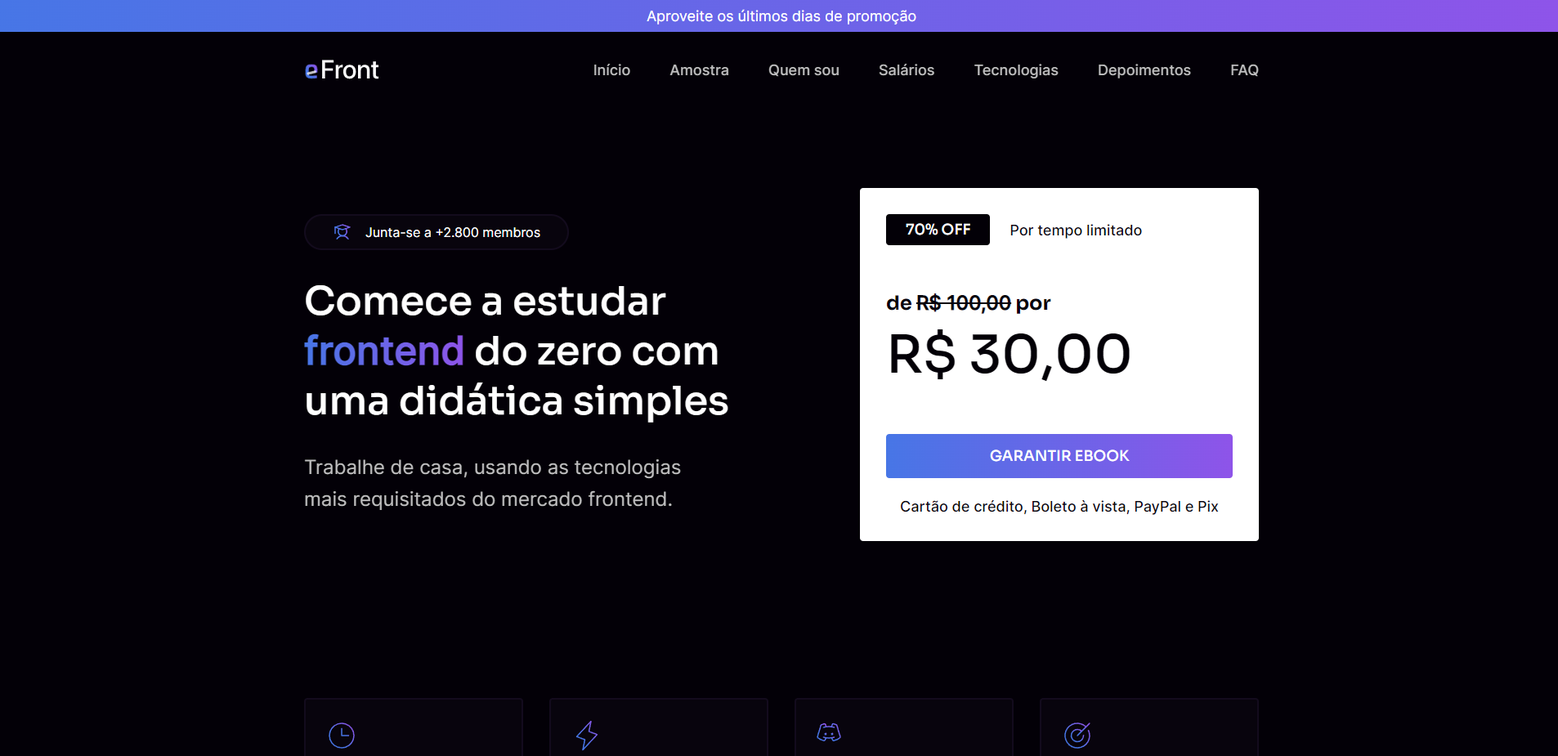
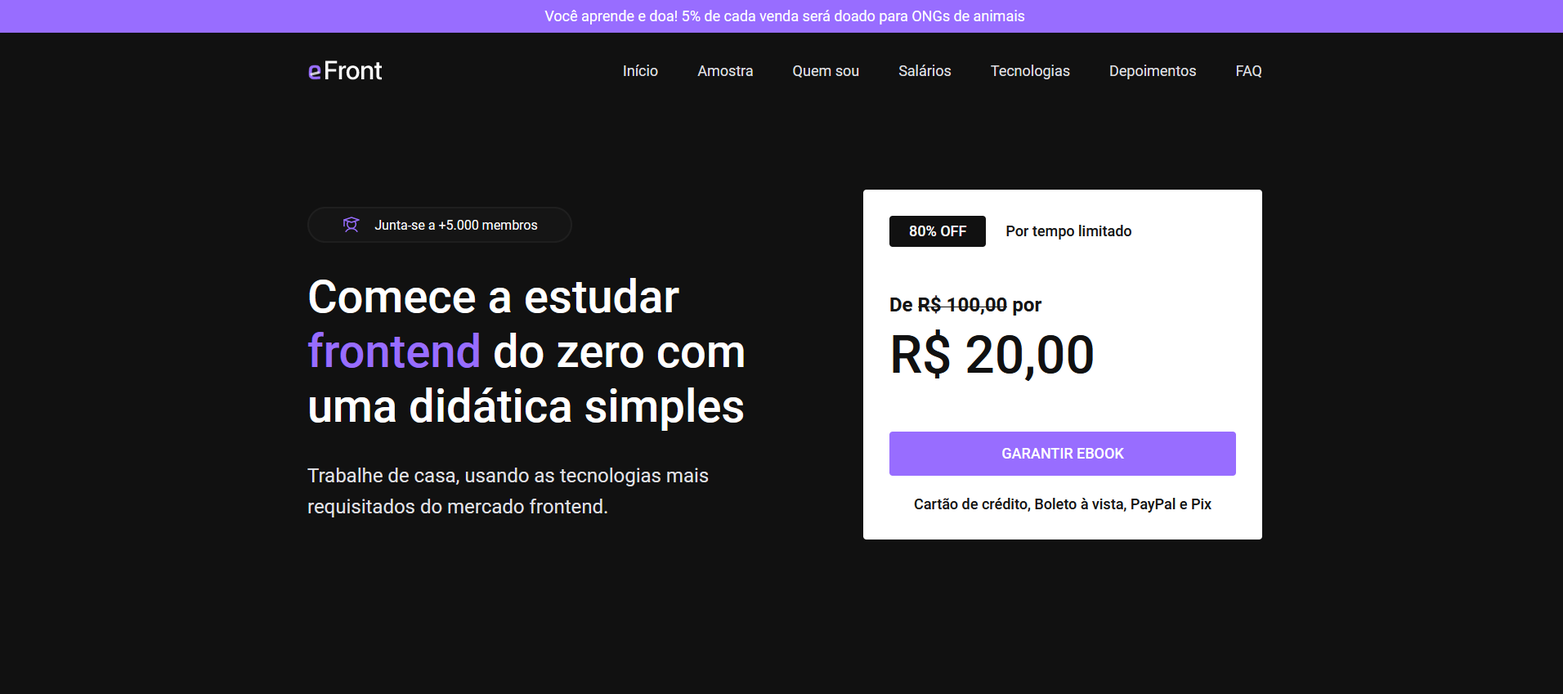
new sections

diff --git a/assets/css/style.css b/assets/css/style.css
@@ -1,1 +1,1 @@
-*{padding:0;margin:0;box-sizing:border-box;font-family:"Roboto"}ul,ol{list-style:none;margin:0;padding:0}a{text-decoration:none}img{max-width:100%;height:auto;display:block}p{margin:0;font-family:"Roboto"}button{margin:0;padding:0}h1,h2,h3,h4,h5,h6{margin:0;font-family:"Roboto";font-weight:500}button,input{border:0;font-family:"Roboto"}button:focus,input:focus{border:0}body{font-family:"Roboto";background-color:#111;color:#fff;overflow-x:hidden;min-height:100vh}html{scroll-behavior:smooth;font-size:62.5%}::-webkit-scrollbar{width:8px}::-webkit-scrollbar-track{background-color:#1f1f1f}::-webkit-scrollbar-thumb{background-color:#986dff;border-radius:8px}#s-menu{width:100%;height:auto;padding:32px 0px;margin-top:38px}#s-menu .grid-layout{display:flex;justify-content:space-between;align-items:center;flex-wrap:wrap}@media screen and (max-width: 688px){#s-menu .grid-layout div:nth-child(1){width:100%;display:flex;align-items:center;justify-content:center;margin-bottom:32px}}#s-menu .grid-layout div:nth-child(2){display:flex;align-items:center;gap:48px}@media screen and (max-width: 688px){#s-menu .grid-layout div:nth-child(2){width:100%}}@media screen and (max-width: 1140px){#s-menu .grid-layout div:nth-child(2) nav{display:none}}#s-menu .grid-layout div:nth-child(2) nav ul{display:flex;align-items:center;gap:48px}#s-menu .grid-layout div:nth-child(2) nav ul li a{font-size:1.8rem;color:#e1e1e6;font-weight:400}#s-menu .grid-layout div:nth-child(2) nav ul li a:hover{color:#fff}#s-menu .grid-layout div:nth-child(2)>a{padding:16px 32px;border-radius:4px;text-align:center;background:#111;position:relative}#s-menu .grid-layout div:nth-child(2)>a::before{content:"";position:absolute;inset:-2px;z-index:-1;border-radius:4px;background:#986dff}@media screen and (max-width: 688px){#s-menu .grid-layout div:nth-child(2)>a{width:100%}}#s-menu .grid-layout div:nth-child(2)>a button{text-transform:uppercase;font-weight:500;font-size:1.6rem;color:#fff;background-color:rgba(0,0,0,0);cursor:pointer}#s-menu .grid-layout div:nth-child(2)>a:hover{background:#986dff}#s-home{padding:96px 0px}@media screen and (max-width: 1140px){#s-home{padding:32px 0px}}#s-home .grid-layout #container-home{display:flex;align-items:center;justify-content:space-between;gap:96px}@media screen and (max-width: 1140px){#s-home .grid-layout #container-home{flex-wrap:wrap;gap:48px}}#s-home .grid-layout #container-home #info-main{width:50%}@media screen and (max-width: 1140px){#s-home .grid-layout #container-home #info-main{width:100%}}#s-home .grid-layout #container-home #info-main span{display:flex;align-items:center;justify-content:center;gap:16px;width:324px;background-color:#151515;border:2px solid #1f1f1f;border-radius:32px;padding:8px 32px;margin-bottom:32px}@media screen and (max-width: 688px){#s-home .grid-layout #container-home #info-main span{width:100%}}#s-home .grid-layout #container-home #info-main span p{font-size:1.6rem}#s-home .grid-layout #container-home #info-main h1{font-size:5.6rem;font-weight:500;width:600px}@media screen and (max-width: 1140px){#s-home .grid-layout #container-home #info-main h1{width:100%;font-size:4rem}}#s-home .grid-layout #container-home #info-main h1 b{color:#986dff;font-weight:500}#s-home .grid-layout #container-home #info-main>p{max-width:500px;margin-top:32px;font-size:2.4rem;line-height:160%;color:#e1e1e6}@media screen and (max-width: 1140px){#s-home .grid-layout #container-home #info-main>p{width:100%;font-size:2rem}}#s-home .grid-layout #container-home article{background-color:#fff;border-radius:4px;color:#111;width:50%;height:auto;padding:32px}@media screen and (max-width: 1140px){#s-home .grid-layout #container-home article{width:100%}}#s-home .grid-layout #container-home article div:nth-child(1){display:flex;align-items:center;flex-wrap:wrap;gap:24px}#s-home .grid-layout #container-home article div:nth-child(1) h2{background-color:#111;color:#fff;font-size:1.8rem;font-weight:500;border-radius:4px;padding:8px 24px;text-transform:uppercase}#s-home .grid-layout #container-home article div:nth-child(1) p{font-size:1.8rem;color:#151515;font-weight:500}#s-home .grid-layout #container-home article div:nth-child(2){margin:56px 0px}#s-home .grid-layout #container-home article div:nth-child(2) h4{font-size:6.4rem}@media screen and (max-width: 688px){#s-home .grid-layout #container-home article div:nth-child(2) h4{font-size:5.6rem}}#s-home .grid-layout #container-home article div:nth-child(2) h3{font-size:2.4rem;color:#151515;font-weight:600;margin-bottom:8px}#s-home .grid-layout #container-home article div:nth-child(2) h3 span{text-decoration:line-through}#s-home .grid-layout #container-home article a{background:#986dff;padding:16px;border-radius:4px;display:flex;justify-content:center}#s-home .grid-layout #container-home article a:hover{background:#8155ea}#s-home .grid-layout #container-home article a button{text-transform:uppercase;font-weight:500;font-size:1.8rem;color:#fff;background-color:rgba(0,0,0,0);cursor:pointer}#s-home .grid-layout #container-home article #info-pay{text-align:center;font-size:1.8rem;color:#151515;margin-top:24px;font-weight:500}.cards{display:flex;align-items:center;justify-content:space-between;flex-wrap:wrap;gap:32px}.cards article{width:20%;min-height:290px;background-color:#151515;border:2px solid #1f1f1f;border-radius:4px;padding:24px;flex-grow:1}@media screen and (max-width: 1140px){.cards article{width:48%;min-height:auto}}@media screen and (max-width: 688px){.cards article{min-height:auto}}.cards article img{width:40px}.cards article h3{font-size:2rem;margin:24px 0px 16px 0px;font-weight:500}@media screen and (max-width: 540px){.cards article h3{font-size:2rem}}.cards article p{font-size:1.6rem;line-height:160%;color:#e1e1e6}#s-advantage{padding:96px 0px}@media screen and (max-width: 1140px){#s-advantage{padding:32px 0px}}#s-technologies{padding:96px 0px}#s-technologies .technologies-disable{opacity:.5;cursor:no-drop}@media screen and (max-width: 1140px){#s-technologies{padding:32px 0px}}#s-technologies #next-icon{width:56px}#s-technologies h2{font-size:4rem;max-width:50%;font-weight:500;text-align:center;margin:0 auto 56px auto}@media screen and (max-width: 1140px){#s-technologies h2{max-width:100%;font-size:2.4rem}}#s-technologies h2 b{color:#986dff;font-weight:500}#s-about{padding:96px 0px}@media screen and (max-width: 1140px){#s-about{padding:32px 0px}}#s-about .grid-layout>div{background-color:#151515;border:2px solid #1f1f1f;padding:24px;border-radius:4px;display:flex;justify-content:space-between;align-items:center;height:auto}@media screen and (max-width: 1140px){#s-about .grid-layout>div{flex-wrap:wrap;gap:32px}}#s-about .grid-layout>div #creator-photo{width:47%;background-image:url("../image/foto-iuricode.png");background-repeat:no-repeat;background-position:center;background-size:cover;border-radius:4px;height:500px}@media screen and (max-width: 1140px){#s-about .grid-layout>div #creator-photo{width:100%;height:400px}}@media screen and (max-width: 688px){#s-about .grid-layout>div #creator-photo{height:350px}}@media screen and (max-width: 540px){#s-about .grid-layout>div #creator-photo{height:300px}}#s-about .grid-layout>div #creator-photo h3{color:#111;background-color:#fff;padding:8px;border-radius:16px;width:180px;text-align:center;font-size:1.4rem;font-weight:500;margin:24px}#s-about .grid-layout>div div:nth-child(2){width:49%}@media screen and (max-width: 1140px){#s-about .grid-layout>div div:nth-child(2){width:100%}}#s-about .grid-layout>div div:nth-child(2) h2{font-size:4rem;font-weight:500;margin-top:16px}@media screen and (max-width: 688px){#s-about .grid-layout>div div:nth-child(2) h2{font-size:3.2rem}}#s-about .grid-layout>div div:nth-child(2) h3{font-size:1.8rem;font-weight:400;margin-bottom:8px}#s-about .grid-layout>div div:nth-child(2) h4{font-size:2rem;font-weight:400;color:#986dff}#s-about .grid-layout>div div:nth-child(2) p{font-size:1.8rem;color:#e1e1e6;line-height:160%;margin:32px 0px 48px 0px}#s-about .grid-layout>div div:nth-child(2) nav ul{display:flex;align-items:center;gap:32px}@media screen and (max-width: 1140px){#s-about .grid-layout>div div:nth-child(2) nav ul{flex-wrap:wrap}}#s-about .grid-layout>div div:nth-child(2) nav ul a{background-color:#111;border:2px solid #1f1f1f;border-radius:6px;padding:8px}@media screen and (max-width: 1140px){#s-about .grid-layout>div div:nth-child(2) nav ul a img{width:40px}}#s-about .grid-layout>div div:nth-child(2) nav ul a:hover{border:2px solid #986dff}#s-salary{padding:96px 0px}@media screen and (max-width: 1140px){#s-salary{padding:32px 0px}}#s-salary img{width:40px}#s-salary h2{font-size:4rem;max-width:45%;font-weight:500;text-align:center;margin:0 auto 56px auto}@media screen and (max-width: 1140px){#s-salary h2{max-width:100%;font-size:2.4rem}}#s-salary h2 b{color:#986dff;font-weight:500}#s-salary .cards-salary{display:flex;align-items:center;justify-content:space-between;flex-wrap:wrap;gap:32px}#s-salary .cards-salary article{width:30%;height:auto;background-color:#151515;border:2px solid #1f1f1f;border-radius:4px;padding:24px;flex-grow:1}@media screen and (max-width: 1140px){#s-salary .cards-salary article{width:48%}}@media screen and (max-width: 688px){#s-salary .cards-salary article{min-height:auto}}#s-salary .cards-salary article img{width:40px}#s-salary .cards-salary article h3{font-size:1.8rem;margin:24px 0px 16px 0px;font-weight:500;color:#e1e1e6}@media screen and (max-width: 540px){#s-salary .cards-salary article h3{font-size:2rem}}#s-salary .cards-salary article h4{font-size:4.8rem}#s-students{padding:96px 0px}@media screen and (max-width: 1140px){#s-students{padding:32px 0px}}#s-students article{display:flex;align-items:center;justify-content:space-between}@media screen and (max-width: 688px){#s-students article{flex-wrap:wrap}}#s-students article div:nth-child(1){width:50%}@media screen and (max-width: 688px){#s-students article div:nth-child(1){width:100%}}#s-students article div:nth-child(2){width:50%}@media screen and (max-width: 1140px){#s-students article div:nth-child(2){width:100%}}#s-students h2{font-size:4.8rem;font-weight:500;width:70%}@media screen and (max-width: 1140px){#s-students h2{font-size:2.4rem;width:100%}}#s-students h2 b{color:#986dff;font-weight:500}#s-students p{width:80%;font-size:2.4rem;color:#e1e1e6;line-height:160%;margin:32px 0}@media screen and (max-width: 1140px){#s-students p{font-size:1.8rem;width:100%}}#s-students a button{border:2px solid #986dff;padding:16px 32px;border-radius:4px;text-transform:uppercase;font-weight:500;font-size:1.8rem;color:#fff;background-color:rgba(0,0,0,0);cursor:pointer}#s-students a button:hover{background:#986dff}@media screen and (max-width: 688px){#s-students a button{width:100%}}#s-depositions{padding:96px 0px}@media screen and (max-width: 1140px){#s-depositions{padding:32px 0px}}#s-depositions h2{font-size:4rem;font-weight:500;text-align:center;max-width:40%;margin:0 auto 48px auto}@media screen and (max-width: 1140px){#s-depositions h2{max-width:100%;font-size:2.4rem}}#s-depositions h2 b{color:#986dff;font-weight:500}#s-depositions #container-depositions{display:flex;justify-content:space-between;flex-wrap:wrap;gap:32px}#s-depositions #container-depositions article{width:47%;background-color:#151515;border:2px solid #1f1f1f;border-radius:4px;padding:24px;flex-grow:1}@media screen and (max-width: 1140px){#s-depositions #container-depositions article{width:100%}}#s-depositions #container-depositions article>div{display:flex;align-items:center;gap:24px;margin-bottom:32px}#s-depositions #container-depositions article>div img{width:80px;border-radius:4px}#s-depositions #container-depositions article>div span h3{font-size:2rem;font-weight:500}#s-depositions #container-depositions article>div span div{display:flex;align-items:center;gap:8px;margin-top:16px}#s-depositions #container-depositions article>div span div img{width:24px}#s-depositions #container-depositions article p{font-size:1.8rem;line-height:160%;color:#e1e1e6;font-style:italic}#s-companies{padding:96px 0px}@media screen and (max-width: 1140px){#s-companies{padding:32px 0px}}#s-companies h2{font-size:4rem;max-width:50%;font-weight:500;text-align:center;margin:0 auto 56px auto}@media screen and (max-width: 1140px){#s-companies h2{max-width:100%;font-size:2.4rem}}#s-companies h2 b{color:#986dff;font-weight:500}#s-companies .cards-companies{display:flex;align-items:center;justify-content:space-between;flex-wrap:wrap;gap:32px}#s-companies .cards-companies article{width:13.333%;height:auto;background-color:#151515;border:2px solid #1f1f1f;border-radius:4px;padding:24px;display:flex;align-items:center;justify-content:center;flex-grow:1}@media screen and (max-width: 1140px){#s-companies .cards-companies article{width:26.333%}}@media screen and (max-width: 688px){#s-companies .cards-companies article{width:46%}}#s-start{padding:96px 0px}@media screen and (max-width: 1140px){#s-start{padding:32px 0px}}#s-start article{padding:80px;background-color:#151515;border:2px solid #1f1f1f;display:flex;align-items:center;justify-content:center;gap:80px;border-radius:4px}@media screen and (max-width: 1140px){#s-start article{flex-wrap:wrap;padding:24px}}#s-start article #cta-start{text-align:center}#s-start article #cta-start p{margin:16px 0px;font-weight:500}#s-start article #cta-start p span{text-decoration:line-through}#s-start article #cta-start a button{margin:32px 0;text-transform:uppercase;background:#986dff;padding:16px 48px;border-radius:4px;font-weight:500;font-size:1.8rem;color:#fff;cursor:pointer}#s-start article #cta-start a button:hover{background:#8155ea}#s-start article div h2{font-size:4rem;font-weight:500;width:500px;margin-bottom:32px}@media screen and (max-width: 1140px){#s-start article div h2{width:100%;font-size:2.4rem}}#s-start article div h2 b{color:#986dff;font-weight:500}#s-start article div p{font-size:1.8rem;color:#e1e1e6}#s-start article div h3{font-size:4.8rem;font-weight:500}@media screen and (max-width: 1140px){#s-start article div h3{font-size:4rem}}#s-start article div h4{font-size:3.2rem;font-weight:500;width:350px}@media screen and (max-width: 1140px){#s-start article div h4{width:100%;text-align:center}}#s-start article div ul{margin-top:48px}#s-start article div ul li{display:flex;align-items:center;gap:16px;margin:8px 0px}#s-faq{padding:96px 0px}@media screen and (max-width: 1140px){#s-faq{padding:32px 0px}}#s-faq .grid-layout>div{margin-top:96px}#s-faq .grid-layout>h2{font-size:4rem;font-weight:500;text-align:center;max-width:40%;margin:0 auto 48px auto}@media screen and (max-width: 1140px){#s-faq .grid-layout>h2{max-width:100%;font-size:2.4rem}}#s-faq .grid-layout>h2 b{color:#986dff;font-weight:500}#s-faq .grid-layout .accordion{display:flex;justify-content:space-between;gap:24px;border-bottom:1px solid #1f1f1f;cursor:pointer;transition:all .3s ease;padding-bottom:32px}#s-faq .grid-layout .accordion:hover{color:#986dff}#s-faq .grid-layout .accordion h3{font-size:2rem;font-weight:500;line-height:150%}#s-faq .grid-layout .accordion .icon{font-size:3.2rem;font-weight:300}#s-faq .grid-layout .panel{max-height:0px;overflow:hidden;transition:all 1s ease;border-bottom:1px solid #1f1f1f;margin-bottom:24px}#s-faq .grid-layout .panel p{margin:32px 0px;font-size:2rem;color:#e1e1e6;line-height:160%}#s-faq .grid-layout .panel a{color:#986dff}#s-faq .grid-layout .open{color:#986dff}footer{width:100%;height:auto;padding:16px 0px;background-color:#151515}footer .grid-layout{display:flex;align-items:center;justify-content:space-between;width:100%}footer p{font-size:1.8rem}footer p a{font-weight:500;color:#986dff}footer img{width:32px}footer div{display:flex;align-items:center;gap:16px}@media screen and (max-width: 1140px){footer .grid-layout{text-align:center;justify-content:center;flex-wrap:wrap;gap:32px}footer .grid-layout div{display:none}}#s-sample{padding:96px 0px}#s-sample .grid-layout{display:flex}#s-sample .grid-layout div:nth-child(1){width:60%}@media screen and (max-width: 1140px){#s-sample .grid-layout div:nth-child(1){width:100%}}#s-sample .grid-layout div:nth-child(1) div{margin-top:72px;display:flex;flex-wrap:wrap;gap:32px}#s-sample .grid-layout div:nth-child(1) a,#s-sample .grid-layout div:nth-child(1) button{font-size:1.8rem;font-weight:500;color:#fff;cursor:pointer}@media screen and (max-width: 540px){#s-sample .grid-layout div:nth-child(1) a,#s-sample .grid-layout div:nth-child(1) button{width:100%;text-align:center}}#s-sample .grid-layout div:nth-child(1) a{padding:16px 32px;border-radius:4px}#s-sample .grid-layout div:nth-child(1) a:nth-child(1){background:#986dff}#s-sample .grid-layout div:nth-child(1) a:nth-child(1):hover{background-color:#8155ea}#s-sample .grid-layout div:nth-child(1) a:nth-child(1) button{background-color:rgba(0,0,0,0)}#s-sample .grid-layout div:nth-child(1) a:nth-child(2){color:#986dff;background-color:rgba(142,84,233,.1)}#s-sample .grid-layout div:nth-child(1) a:nth-child(2):hover{background-color:rgba(142,84,233,.2)}#s-sample .grid-layout div:nth-child(2){width:40%}@media screen and (max-width: 1140px){#s-sample .grid-layout div:nth-child(2){display:none}}@media screen and (max-width: 1140px){#s-sample{padding:32px 0px}}#s-sample h2{font-size:3.2rem;max-width:70%;font-weight:500}@media screen and (max-width: 1140px){#s-sample h2{max-width:100%;font-size:2.4rem}}#s-sample h2 b{color:#986dff;font-weight:500}#s-sample ul{margin-top:48px}#s-sample ul li{display:flex;align-items:center;gap:24px;margin:16px 0px}#s-sample ul li p{font-size:1.8rem;line-height:180%}#info-promotion{background:#986dff;width:100%;height:40px;display:flex;align-items:center;justify-content:center;text-align:center;position:fixed;top:0;left:0;z-index:999}#info-promotion p{color:#fff;font-size:1.8rem;font-weight:400}@media screen and (max-width: 688px){#info-promotion p{font-size:1.6rem}}.grid-layout{max-width:1216px;margin:0 auto;padding:0px 24px}/*# sourceMappingURL=style.css.map */
+*{padding:0;margin:0;box-sizing:border-box;font-family:"Roboto"}ul,ol{list-style:none;margin:0;padding:0}a{text-decoration:none}img{max-width:100%;height:auto;display:block}p{margin:0;font-family:"Roboto"}button{margin:0;padding:0}h1,h2,h3,h4,h5,h6{margin:0;font-family:"Roboto";font-weight:500}button,input{border:0;font-family:"Roboto"}button:focus,input:focus{border:0}body{font-family:"Roboto";background-color:#111;color:#fff;overflow-x:hidden;min-height:100vh}html{scroll-behavior:smooth;font-size:62.5%}::-webkit-scrollbar{width:8px}::-webkit-scrollbar-track{background-color:#1f1f1f}::-webkit-scrollbar-thumb{background-color:#986dff;border-radius:8px}#s-menu{width:100%;height:auto;padding:32px 0px;margin-top:38px}#s-menu .grid-layout{display:flex;justify-content:space-between;align-items:center;flex-wrap:wrap}@media screen and (max-width: 688px){#s-menu .grid-layout div:nth-child(1){width:100%;display:flex;align-items:center;justify-content:center;margin-bottom:32px}}#s-menu .grid-layout div:nth-child(2){display:flex;align-items:center;gap:48px}@media screen and (max-width: 688px){#s-menu .grid-layout div:nth-child(2){width:100%}}@media screen and (max-width: 1140px){#s-menu .grid-layout div:nth-child(2) nav{display:none}}#s-menu .grid-layout div:nth-child(2) nav ul{display:flex;align-items:center;gap:48px}#s-menu .grid-layout div:nth-child(2) nav ul li a{font-size:1.8rem;color:#e1e1e6;font-weight:400}#s-menu .grid-layout div:nth-child(2) nav ul li a:hover{color:#fff}#s-menu .grid-layout div:nth-child(2)>a{padding:16px 32px;border-radius:4px;text-align:center;background:#111;position:relative}#s-menu .grid-layout div:nth-child(2)>a::before{content:"";position:absolute;inset:-2px;z-index:-1;border-radius:4px;background:#986dff}@media screen and (max-width: 688px){#s-menu .grid-layout div:nth-child(2)>a{width:100%}}#s-menu .grid-layout div:nth-child(2)>a button{text-transform:uppercase;font-weight:500;font-size:1.6rem;color:#fff;background-color:rgba(0,0,0,0);cursor:pointer}#s-menu .grid-layout div:nth-child(2)>a:hover{background:#986dff}#s-home{padding:96px 0px}@media screen and (max-width: 1140px){#s-home{padding:32px 0px}}#s-home .grid-layout #container-home{display:flex;align-items:center;justify-content:space-between;gap:96px}@media screen and (max-width: 1140px){#s-home .grid-layout #container-home{flex-wrap:wrap;gap:48px}}#s-home .grid-layout #container-home #info-main{width:50%}@media screen and (max-width: 1140px){#s-home .grid-layout #container-home #info-main{width:100%}}#s-home .grid-layout #container-home #info-main span{display:flex;align-items:center;justify-content:center;gap:16px;width:324px;background-color:#151515;border:2px solid #1f1f1f;border-radius:32px;padding:8px 32px;margin-bottom:32px}@media screen and (max-width: 688px){#s-home .grid-layout #container-home #info-main span{width:100%}}#s-home .grid-layout #container-home #info-main span p{font-size:1.6rem}#s-home .grid-layout #container-home #info-main h1{font-size:5.6rem;font-weight:500;width:600px}@media screen and (max-width: 1140px){#s-home .grid-layout #container-home #info-main h1{width:100%;font-size:4rem}}#s-home .grid-layout #container-home #info-main h1 b{color:#986dff;font-weight:500}#s-home .grid-layout #container-home #info-main>p{max-width:500px;margin-top:32px;font-size:2.4rem;line-height:160%;color:#e1e1e6}@media screen and (max-width: 1140px){#s-home .grid-layout #container-home #info-main>p{width:100%;font-size:2rem}}#s-home .grid-layout #container-home article{background-color:#fff;border-radius:4px;color:#111;width:50%;height:auto;padding:32px}@media screen and (max-width: 1140px){#s-home .grid-layout #container-home article{width:100%}}#s-home .grid-layout #container-home article div:nth-child(1){display:flex;align-items:center;flex-wrap:wrap;gap:24px}#s-home .grid-layout #container-home article div:nth-child(1) h2{background-color:#111;color:#fff;font-size:1.8rem;font-weight:500;border-radius:4px;padding:8px 24px;text-transform:uppercase}#s-home .grid-layout #container-home article div:nth-child(1) p{font-size:1.8rem;color:#151515;font-weight:500}#s-home .grid-layout #container-home article div:nth-child(2){margin:56px 0px}#s-home .grid-layout #container-home article div:nth-child(2) h4{font-size:6.4rem}@media screen and (max-width: 688px){#s-home .grid-layout #container-home article div:nth-child(2) h4{font-size:5.6rem}}#s-home .grid-layout #container-home article div:nth-child(2) h3{font-size:2.4rem;color:#151515;font-weight:600;margin-bottom:8px}#s-home .grid-layout #container-home article div:nth-child(2) h3 span{text-decoration:line-through}#s-home .grid-layout #container-home article a{background:#986dff;padding:16px;border-radius:4px;display:flex;justify-content:center}#s-home .grid-layout #container-home article a:hover{background:#8155ea}#s-home .grid-layout #container-home article a button{text-transform:uppercase;font-weight:500;font-size:1.8rem;color:#fff;background-color:rgba(0,0,0,0);cursor:pointer}#s-home .grid-layout #container-home article #info-pay{text-align:center;font-size:1.8rem;color:#151515;margin-top:24px;font-weight:500}.cards{display:flex;align-items:center;justify-content:space-between;flex-wrap:wrap;gap:32px}.cards article{width:20%;min-height:290px;background-color:#151515;border:2px solid #1f1f1f;border-radius:4px;padding:24px;flex-grow:1}@media screen and (max-width: 1140px){.cards article{width:48%;min-height:auto}}@media screen and (max-width: 688px){.cards article{min-height:auto}}.cards article img{width:40px}.cards article h3{font-size:2rem;margin:24px 0px 16px 0px;font-weight:500}@media screen and (max-width: 540px){.cards article h3{font-size:2rem}}.cards article p{font-size:1.6rem;line-height:160%;color:#e1e1e6}#s-advantage{padding:96px 0px}@media screen and (max-width: 1140px){#s-advantage{padding:32px 0px}}#s-technologies{padding:96px 0px}#s-technologies .technologies-disable{opacity:.5;cursor:no-drop}@media screen and (max-width: 1140px){#s-technologies{padding:32px 0px}}#s-technologies #next-icon{width:56px}#s-technologies h2{font-size:4rem;max-width:50%;font-weight:500;text-align:center;margin:0 auto 56px auto}@media screen and (max-width: 1140px){#s-technologies h2{max-width:100%;font-size:2.4rem}}#s-technologies h2 b{color:#986dff;font-weight:500}#s-about{padding:96px 0px}@media screen and (max-width: 1140px){#s-about{padding:32px 0px}}#s-about .grid-layout>div{background-color:#151515;border:2px solid #1f1f1f;padding:24px;border-radius:4px;display:flex;justify-content:space-between;align-items:center;height:auto}@media screen and (max-width: 1140px){#s-about .grid-layout>div{flex-wrap:wrap;gap:32px}}#s-about .grid-layout>div #creator-photo{width:47%;background-image:url("../image/foto-iuricode.png");background-repeat:no-repeat;background-position:center;background-size:cover;border-radius:4px;height:500px}@media screen and (max-width: 1140px){#s-about .grid-layout>div #creator-photo{width:100%;height:400px}}@media screen and (max-width: 688px){#s-about .grid-layout>div #creator-photo{height:350px}}@media screen and (max-width: 540px){#s-about .grid-layout>div #creator-photo{height:300px}}#s-about .grid-layout>div #creator-photo h3{color:#111;background-color:#fff;padding:8px;border-radius:16px;width:180px;text-align:center;font-size:1.4rem;font-weight:500;margin:24px}#s-about .grid-layout>div div:nth-child(2){width:49%}@media screen and (max-width: 1140px){#s-about .grid-layout>div div:nth-child(2){width:100%}}#s-about .grid-layout>div div:nth-child(2) h2{font-size:4rem;font-weight:500;margin-top:16px}@media screen and (max-width: 688px){#s-about .grid-layout>div div:nth-child(2) h2{font-size:3.2rem}}#s-about .grid-layout>div div:nth-child(2) h3{font-size:1.8rem;font-weight:400;margin-bottom:8px}#s-about .grid-layout>div div:nth-child(2) h4{font-size:2rem;font-weight:400;color:#986dff}#s-about .grid-layout>div div:nth-child(2) p{font-size:1.8rem;color:#e1e1e6;line-height:160%;margin:32px 0px 48px 0px}#s-about .grid-layout>div div:nth-child(2) nav ul{display:flex;align-items:center;gap:32px}@media screen and (max-width: 1140px){#s-about .grid-layout>div div:nth-child(2) nav ul{flex-wrap:wrap}}#s-about .grid-layout>div div:nth-child(2) nav ul a{background-color:#111;border:2px solid #1f1f1f;border-radius:6px;padding:8px}@media screen and (max-width: 1140px){#s-about .grid-layout>div div:nth-child(2) nav ul a img{width:40px}}#s-about .grid-layout>div div:nth-child(2) nav ul a:hover{border:2px solid #986dff}#s-salary{padding:96px 0px}@media screen and (max-width: 1140px){#s-salary{padding:32px 0px}}#s-salary img{width:40px}#s-salary h2{font-size:4rem;max-width:45%;font-weight:500;text-align:center;margin:0 auto 56px auto}@media screen and (max-width: 1140px){#s-salary h2{max-width:100%;font-size:2.4rem}}#s-salary h2 b{color:#986dff;font-weight:500}#s-salary .cards-salary{display:flex;align-items:center;justify-content:space-between;flex-wrap:wrap;gap:32px}#s-salary .cards-salary article{width:30%;height:auto;background-color:#151515;border:2px solid #1f1f1f;border-radius:4px;padding:24px;flex-grow:1}@media screen and (max-width: 1140px){#s-salary .cards-salary article{width:48%}}@media screen and (max-width: 688px){#s-salary .cards-salary article{min-height:auto}}#s-salary .cards-salary article img{width:40px}#s-salary .cards-salary article h3{font-size:1.8rem;margin:24px 0px 16px 0px;font-weight:500;color:#e1e1e6}@media screen and (max-width: 540px){#s-salary .cards-salary article h3{font-size:2rem}}#s-salary .cards-salary article h4{font-size:4.8rem}#s-students{padding:96px 0px}@media screen and (max-width: 1140px){#s-students{padding:32px 0px}}#s-students article{display:flex;align-items:center;justify-content:space-between}@media screen and (max-width: 688px){#s-students article{flex-wrap:wrap}}#s-students article div:nth-child(1){width:50%}@media screen and (max-width: 688px){#s-students article div:nth-child(1){width:100%}}#s-students article div:nth-child(2){width:50%}@media screen and (max-width: 1140px){#s-students article div:nth-child(2){width:100%}}#s-students h2{font-size:4.8rem;font-weight:500;width:70%}@media screen and (max-width: 1140px){#s-students h2{font-size:2.4rem;width:100%}}#s-students h2 b{color:#986dff;font-weight:500}#s-students p{width:80%;font-size:2.4rem;color:#e1e1e6;line-height:160%;margin:32px 0}@media screen and (max-width: 1140px){#s-students p{font-size:1.8rem;width:100%}}#s-students a button{border:2px solid #986dff;padding:16px 32px;border-radius:4px;text-transform:uppercase;font-weight:500;font-size:1.8rem;color:#fff;background-color:rgba(0,0,0,0);cursor:pointer}#s-students a button:hover{background:#986dff}@media screen and (max-width: 688px){#s-students a button{width:100%}}#s-depositions{padding:96px 0px}@media screen and (max-width: 1140px){#s-depositions{padding:32px 0px}}#s-depositions h2{font-size:4rem;font-weight:500;text-align:center;max-width:40%;margin:0 auto 48px auto}@media screen and (max-width: 1140px){#s-depositions h2{max-width:100%;font-size:2.4rem}}#s-depositions h2 b{color:#986dff;font-weight:500}#s-depositions #container-depositions{display:flex;justify-content:space-between;flex-wrap:wrap;gap:32px}#s-depositions #container-depositions article{width:47%;background-color:#151515;border:2px solid #1f1f1f;border-radius:4px;padding:24px;flex-grow:1}@media screen and (max-width: 1140px){#s-depositions #container-depositions article{width:100%}}#s-depositions #container-depositions article>div{display:flex;align-items:center;gap:24px;margin-bottom:32px}#s-depositions #container-depositions article>div img{width:80px;border-radius:4px}#s-depositions #container-depositions article>div span h3{font-size:2rem;font-weight:500}#s-depositions #container-depositions article>div span div{display:flex;align-items:center;gap:8px;margin-top:16px}#s-depositions #container-depositions article>div span div img{width:24px}#s-depositions #container-depositions article p{font-size:1.8rem;line-height:160%;color:#e1e1e6;font-style:italic}#s-companies{padding:96px 0px}@media screen and (max-width: 1140px){#s-companies{padding:32px 0px}}#s-companies h2{font-size:4rem;max-width:50%;font-weight:500;text-align:center;margin:0 auto 56px auto}@media screen and (max-width: 1140px){#s-companies h2{max-width:100%;font-size:2.4rem}}#s-companies h2 b{color:#986dff;font-weight:500}#s-companies .cards-companies{display:flex;align-items:center;justify-content:space-between;flex-wrap:wrap;gap:32px}#s-companies .cards-companies article{width:13.333%;height:auto;background-color:#151515;border:2px solid #1f1f1f;border-radius:4px;padding:24px;display:flex;align-items:center;justify-content:center;flex-grow:1}@media screen and (max-width: 1140px){#s-companies .cards-companies article{width:26.333%}}@media screen and (max-width: 688px){#s-companies .cards-companies article{width:46%}}#s-start{padding:96px 0px}@media screen and (max-width: 1140px){#s-start{padding:32px 0px}}#s-start article{padding:80px;background-color:#151515;border:2px solid #1f1f1f;display:flex;align-items:center;justify-content:center;gap:80px;border-radius:4px}@media screen and (max-width: 1140px){#s-start article{flex-wrap:wrap;padding:24px}}#s-start article #cta-start{text-align:center}#s-start article #cta-start p{margin:16px 0px;font-weight:500}#s-start article #cta-start p span{text-decoration:line-through}#s-start article #cta-start a button{margin:32px 0;text-transform:uppercase;background:#986dff;padding:16px 48px;border-radius:4px;font-weight:500;font-size:1.8rem;color:#fff;cursor:pointer}#s-start article #cta-start a button:hover{background:#8155ea}#s-start article div h2{font-size:4rem;font-weight:500;width:500px;margin-bottom:32px}@media screen and (max-width: 1140px){#s-start article div h2{width:100%;font-size:2.4rem}}#s-start article div h2 b{color:#986dff;font-weight:500}#s-start article div p{font-size:1.8rem;color:#e1e1e6}#s-start article div h3{font-size:4.8rem;font-weight:500}@media screen and (max-width: 1140px){#s-start article div h3{font-size:4rem}}#s-start article div h4{font-size:3.2rem;font-weight:500;width:350px}@media screen and (max-width: 1140px){#s-start article div h4{width:100%;text-align:center}}#s-start article div ul{margin-top:48px}#s-start article div ul li{display:flex;align-items:center;gap:16px;margin:8px 0px}#s-notion{padding:96px 0px}@media screen and (max-width: 1140px){#s-notion{padding:32px 0px}}#s-notion article{display:flex;align-items:center;justify-content:space-between}@media screen and (max-width: 688px){#s-notion article{flex-wrap:wrap}}#s-notion article div:nth-child(1){width:50%}@media screen and (max-width: 688px){#s-notion article div:nth-child(1){width:100%}}#s-notion article div:nth-child(2){width:50%}@media screen and (max-width: 1140px){#s-notion article div:nth-child(2){width:100%}}#s-notion h2{font-size:4rem;font-weight:500;width:80%}@media screen and (max-width: 1140px){#s-notion h2{font-size:2.4rem;width:100%}}#s-notion h2 b{color:#986dff;font-weight:500}#s-notion p{width:80%;font-size:2.4rem;color:#e1e1e6;line-height:160%;margin:32px 0}@media screen and (max-width: 1140px){#s-notion p{font-size:1.8rem;width:100%}}#s-notion a button{border:2px solid #986dff;padding:16px 32px;border-radius:4px;text-transform:uppercase;font-weight:500;font-size:1.8rem;color:#fff;background-color:rgba(0,0,0,0);cursor:pointer}#s-notion a button:hover{background:#986dff}@media screen and (max-width: 688px){#s-notion a button{width:100%}}#s-eplus{padding:96px 0px}@media screen and (max-width: 1140px){#s-eplus{padding:32px 0px}}#s-eplus article{display:flex;align-items:center;justify-content:space-between;gap:32px;background-color:#151515;border:2px solid #1f1f1f;border-radius:4px;padding:24px}@media screen and (max-width: 688px){#s-eplus article{flex-wrap:wrap}}#s-eplus article div{display:flex;align-items:center;gap:32px}#s-eplus article div img{width:48px}@media screen and (max-width: 1140px){#s-eplus article div img{display:none}}#s-eplus article div h2{max-width:400px;font-size:2.4rem;line-height:130%}@media screen and (max-width: 688px){#s-eplus article div h2{max-width:100%}}#s-eplus article a button{border:2px solid #74aa9c;padding:16px 32px;border-radius:4px;text-transform:uppercase;font-weight:500;font-size:1.8rem;color:#fff;background-color:rgba(0,0,0,0);cursor:pointer}#s-eplus article a button:hover{background:#74aa9c}@media screen and (max-width: 688px){#s-eplus article a button{width:100%}}@media screen and (max-width: 688px){#s-eplus article a{width:100%}}#s-faq{padding:96px 0px}@media screen and (max-width: 1140px){#s-faq{padding:32px 0px}}#s-faq .grid-layout>div{margin-top:96px}#s-faq .grid-layout>h2{font-size:4rem;font-weight:500;text-align:center;max-width:40%;margin:0 auto 48px auto}@media screen and (max-width: 1140px){#s-faq .grid-layout>h2{max-width:100%;font-size:2.4rem}}#s-faq .grid-layout>h2 b{color:#986dff;font-weight:500}#s-faq .grid-layout .accordion{display:flex;justify-content:space-between;gap:24px;border-bottom:1px solid #1f1f1f;cursor:pointer;transition:all .3s ease;padding-bottom:32px}#s-faq .grid-layout .accordion:hover{color:#986dff}#s-faq .grid-layout .accordion h3{font-size:2rem;font-weight:500;line-height:150%}#s-faq .grid-layout .accordion .icon{font-size:3.2rem;font-weight:300}#s-faq .grid-layout .panel{max-height:0px;overflow:hidden;transition:all 1s ease;border-bottom:1px solid #1f1f1f;margin-bottom:24px}#s-faq .grid-layout .panel p{margin:32px 0px;font-size:2rem;color:#e1e1e6;line-height:160%}#s-faq .grid-layout .panel a{color:#986dff}#s-faq .grid-layout .open{color:#986dff}footer{width:100%;height:auto;padding:16px 0px;background-color:#151515}footer .grid-layout{display:flex;align-items:center;justify-content:space-between;width:100%}footer p{font-size:1.8rem}footer p a{font-weight:500;color:#986dff}footer img{width:32px}footer div{display:flex;align-items:center;gap:16px}@media screen and (max-width: 1140px){footer .grid-layout{text-align:center;justify-content:center;flex-wrap:wrap;gap:32px}footer .grid-layout div{display:none}}#s-sample{padding:96px 0px}#s-sample .grid-layout{display:flex}#s-sample .grid-layout div:nth-child(1){width:60%}@media screen and (max-width: 1140px){#s-sample .grid-layout div:nth-child(1){width:100%}}#s-sample .grid-layout div:nth-child(1) div{margin-top:72px;display:flex;flex-wrap:wrap;gap:32px}#s-sample .grid-layout div:nth-child(1) a,#s-sample .grid-layout div:nth-child(1) button{font-size:1.8rem;font-weight:500;color:#fff;cursor:pointer}@media screen and (max-width: 540px){#s-sample .grid-layout div:nth-child(1) a,#s-sample .grid-layout div:nth-child(1) button{width:100%;text-align:center}}#s-sample .grid-layout div:nth-child(1) a{padding:16px 32px;border-radius:4px}#s-sample .grid-layout div:nth-child(1) a:nth-child(1){background:#986dff}#s-sample .grid-layout div:nth-child(1) a:nth-child(1):hover{background-color:#8155ea}#s-sample .grid-layout div:nth-child(1) a:nth-child(1) button{background-color:rgba(0,0,0,0)}#s-sample .grid-layout div:nth-child(1) a:nth-child(2){color:#986dff;background-color:rgba(142,84,233,.1)}#s-sample .grid-layout div:nth-child(1) a:nth-child(2):hover{background-color:rgba(142,84,233,.2)}#s-sample .grid-layout div:nth-child(2){width:40%}@media screen and (max-width: 1140px){#s-sample .grid-layout div:nth-child(2){display:none}}@media screen and (max-width: 1140px){#s-sample{padding:32px 0px}}#s-sample h2{font-size:3.2rem;max-width:70%;font-weight:500}@media screen and (max-width: 1140px){#s-sample h2{max-width:100%;font-size:2.4rem}}#s-sample h2 b{color:#986dff;font-weight:500}#s-sample ul{margin-top:48px}#s-sample ul li{display:flex;align-items:center;gap:24px;margin:16px 0px}#s-sample ul li p{font-size:1.8rem;line-height:180%}#info-promotion{background:#986dff;width:100%;height:40px;display:flex;align-items:center;justify-content:center;text-align:center;position:fixed;top:0;left:0;z-index:999}#info-promotion p{color:#fff;font-size:1.8rem;font-weight:400}@media screen and (max-width: 688px){#info-promotion p{font-size:1.6rem}}.grid-layout{max-width:1216px;margin:0 auto;padding:0px 24px}/*# sourceMappingURL=style.css.map */

diff --git a/index.html b/index.html
@@ -38,7 +38,7 @@
   </head>
   <body>
     <header id="info-promotion" class="delayExtraBigReveal">
-      <p>Aproveite os últimos dias de promoção</p>
+      <p>Você aprende e doa! 5% de cada venda será doado para ONGs de animais</p>
     </header>
 
     <main>
@@ -78,7 +78,7 @@
                   alt="Logo de formado"
                   onload="SVGInject(this)"
                 />
-                <p>Junta-se a +4.000 membros</p>
+                <p>Junta-se a +5.000 membros</p>
               </span>
               <h1>
                 Comece a estudar <b>frontend</b> do zero com uma didática
@@ -637,7 +637,7 @@
               <img src="assets/image/illustration.svg" alt="Foto de um mago" />
             </div>
             <div>
-              <h2>Mais de <b>4 mil devs</b> já se conectaram</h2>
+              <h2>Mais de <b>5 mil devs</b> já se conectaram</h2>
               <p>
                 Trabalhe de casa, usando as tecnologias mais requisitados do
                 mercado frontend.
@@ -815,6 +815,49 @@
               />
             </article>
           </div>
+        </div>
+      </section>
+
+      <section id="s-notion">
+        <div class="grid-layout">
+          <article>
+            <div>
+              <img src="assets/image/notion.svg" alt="Foto de um mago" />
+            </div>
+            <div>
+              <h2>Acesso à <b>minha lista</b> de mais de 500 links úteis</h2>
+              <p>
+                Esses links representam uma seleção dos melhores recursos
+                gratuitos disponíveis.
+              </p>
+              <a
+                href="https://pay.hotmart.com/L66686646K?checkoutMode=10"
+                rel="noopener"
+                target="_blank"
+              >
+                <button>Quero ter acesso</button>
+              </a>
+            </div>
+          </article>
+        </div>
+      </section>
+
+      <section id="s-eplus">
+        <div class="grid-layout">
+          <article>
+            <div>
+              <img src="assets/image/eplus.svg" alt="Logo do eFront Plus" />
+              <h2>Amplie seus conhecimentos no frontend com o eFront Plus</h2>
+            </div>
+
+            <a
+              href="https://pay.hotmart.com/X83677661Q?checkoutMode=10"
+              rel="noopener"
+              target="_blank"
+            >
+              <button>Quero comprar também</button>
+            </a>
+          </article>
         </div>
       </section>
 

diff --git a/assets/scss/_notion.scss b/assets/scss/_notion.scss
@@ -1,0 +1,84 @@
+#s-notion {
+  padding: $gap-96 0px;
+
+  @include responsive-desktop {
+    padding: $gap-40 0px;
+  }
+
+  article {
+    display: flex;
+    align-items: center;
+    justify-content: space-between;
+
+    @include responsive-tablet {
+      flex-wrap: wrap;
+    }
+
+    div:nth-child(1) {
+      width: 50%;
+
+      @include responsive-tablet {
+        width: 100%;
+      }
+    }
+
+    div:nth-child(2) {
+      width: 50%;
+
+      @include responsive-desktop {
+        width: 100%;
+      }
+    }
+  }
+
+  h2 {
+    font-size: 4rem;
+    font-weight: 500;
+    width: 80%;
+
+    @include responsive-desktop {
+      font-size: 2.4rem;
+      width: 100%;
+    }
+
+    b {
+      color: $color-primary;
+      font-weight: 500;
+    }
+  }
+
+  p {
+    width: 80%;
+    font-size: 2.4rem;
+    color: $color-gray;
+    line-height: 160%;
+    margin: $gap-40 0;
+
+    @include responsive-desktop {
+      font-size: 1.8rem;
+      width: 100%;
+    }
+  }
+
+  a {
+    button {
+      border: 2px solid $color-primary;
+      padding: $gap-16 $gap-40;
+      border-radius: 4px;
+      text-transform: uppercase;
+      font-weight: 500;
+      font-size: 1.8rem;
+      color: $color-white;
+      background-color: transparent;
+      cursor: pointer;
+
+      &:hover {
+        background: $color-primary;
+      }
+
+      @include responsive-tablet {
+        width: 100%;
+      }
+    }
+  }
+}

diff --git a/assets/scss/_eplus.scss b/assets/scss/_eplus.scss
@@ -1,0 +1,73 @@
+#s-eplus {
+  padding: $gap-96 0px;
+
+  @include responsive-desktop {
+    padding: $gap-40 0px;
+  }
+
+  article {
+    display: flex;
+    align-items: center;
+    justify-content: space-between;
+    gap: $gap-32;
+
+    background-color: $color-dark-200;
+    border: 2px solid $color-dark-400;
+    border-radius: 4px;
+    padding: $gap-24;
+
+    @include responsive-tablet {
+      flex-wrap: wrap;
+    }
+
+    div {
+      display: flex;
+      align-items: center;
+      gap: $gap-40;
+
+      img {
+        width: 48px;
+
+        @include responsive-desktop {
+          display: none;
+        }
+      }
+
+      h2 {
+        max-width: 400px;
+        font-size: 2.4rem;
+        line-height: 130%;
+
+        @include responsive-tablet {
+          max-width: 100%;
+        }
+      }
+    }
+
+    a {
+      button {
+        border: 2px solid $color-eplus;
+        padding: $gap-16 $gap-40;
+        border-radius: 4px;
+        text-transform: uppercase;
+        font-weight: 500;
+        font-size: 1.8rem;
+        color: $color-white;
+        background-color: transparent;
+        cursor: pointer;
+
+        &:hover {
+          background: $color-eplus;
+        }
+
+        @include responsive-tablet {
+          width: 100%;
+        }
+      }
+
+      @include responsive-tablet {
+        width: 100%;
+      }
+    }
+  }
+}

diff --git a/assets/scss/style.scss b/assets/scss/style.scss
@@ -1,6 +1,7 @@
 @import "./variables", "./reset", "./menu", "./home", "./cards", "./advantage",
   "./technologies", "./about", "./salary", "./students", "./depositions",
-  "./companies", "./start", "./faq", "./footer", "./sample";
+  "./companies", "./start", "./notion", "./eplus", "./faq", "./footer",
+  "./sample";
 
 #info-promotion {
   background: $color-primary;

diff --git a/assets/scss/_variables.scss b/assets/scss/_variables.scss
@@ -3,6 +3,7 @@ $font-descripiton: "Roboto";
 
 $color-primary: #986dff;
 $color-primary-hover: #8155ea;
+$color-eplus: #74AA9C;
 
 $color-white: #ffffff;
 $color-gray: #e1e1e6;
